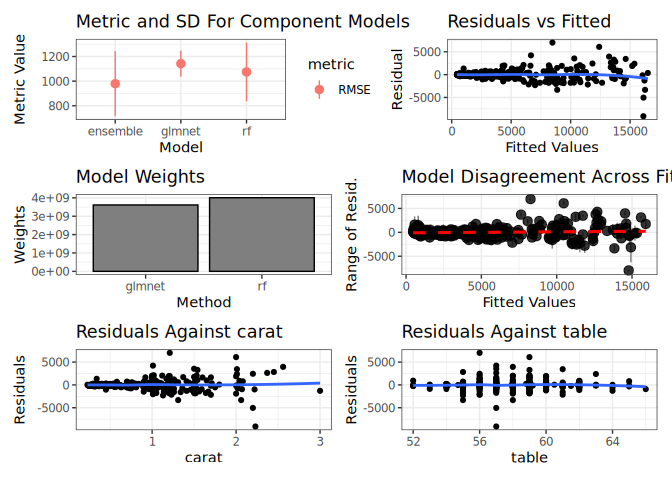
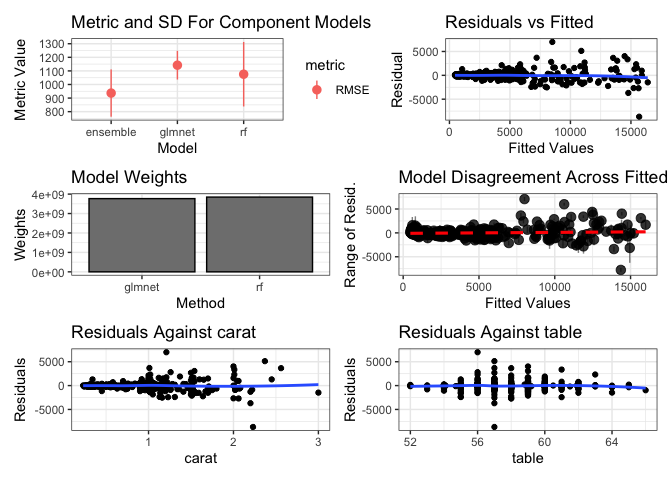
Prep 4.0.2 CRAN submission (NEWS + cran-comments) (#413)

Changed region(s): [[0.0, 0.0312, 1.0, 0.9688], [0.2812, 0.9375, 0.3438, 0.9688]]

diff --git a/README.md b/README.md
@@ -14,14 +14,14 @@ Downloads](https://cranlogs.r-pkg.org/badges/last-month/caretEnsemble)](https://
 [![R-CMD-check](https://github.com/zachmayer/caretEnsemble/actions/workflows/R-CMD-check.yaml/badge.svg?branch=main)](https://github.com/zachmayer/caretEnsemble/actions/workflows/R-CMD-check.yaml)
 [![Tests](https://github.com/zachmayer/caretEnsemble/actions/workflows/tests.yaml/badge.svg?branch=main)](https://github.com/zachmayer/caretEnsemble/actions/workflows/tests.yaml)
 [![Code
-Coverage](https://codecov.io/gh/zachmayer/caretEnsemble/graph/badge.svg?token=IEtOlZDYMs)](https://codecov.io/gh/zachmayer/caretEnsemble)
+Coverage](https://app.codecov.io/gh/zachmayer/caretEnsemble/graph/badge.svg?token=IEtOlZDYMs)](https://app.codecov.io/gh/zachmayer/caretEnsemble)
 [![CodeFactor](https://www.codefactor.io/repository/github/zachmayer/caretEnsemble/badge)](https://www.codefactor.io/repository/github/zachmayer/caretEnsemble)
 [![r-universe status
 badge](https://zachmayer.r-universe.dev/badges/caretEnsemble)](https://zachmayer.r-universe.dev/caretEnsemble)
 [![Code
 Size](https://img.shields.io/github/languages/code-size/zachmayer/caretEnsemble.svg)](https://github.com/zachmayer/caretEnsemble)
 [![License](http://img.shields.io/:license-mit-blue.svg?style=flat)](https://badges.mit-license.org)
-[![Discord](https://img.shields.io/discord/1255535052578619524)](https://discord.gg/zgPeSm8a3u)
+[![Discord](https://img.shields.io/discord/1255535052578619524)](https://discord.com/invite/zgPeSm8a3u)
 <!-- badges: end -->
 
 caretEnsemble is a framework for
@@ -49,7 +49,7 @@ print(summary(models))
 #> Model accuracy:
 #>    model_name metric    value       sd
 #>        <char> <char>    <num>    <num>
-#> 1:         rf   RMSE 1074.682 238.2442
+#> 1:         rf   RMSE 1075.619 237.4499
 #> 2:     glmnet   RMSE 1142.082 105.6022
 ```
 
@@ -69,13 +69,13 @@ print(greedy_stack)
 #> Resampling results:
 #> 
 #>   RMSE      Rsquared   MAE     
-#>   992.0694  0.9354531  559.5561
+#>   974.1608  0.9353576  558.3467
 #> 
 #> Tuning parameter 'max_iter' was held constant at a value of 100
 #> 
 #> Final model:
 #> Greedy MSE
-#> RMSE:  997.4437 
+#> RMSE:  995.7783 
 #> Weights:
 #>        [,1]
 #> rf     0.55
@@ -99,7 +99,7 @@ print(rf_stack)
 #> Resampling results:
 #> 
 #>   RMSE      Rsquared   MAE     
-#>   979.1918  0.9379759  513.1197
+#>   936.8824  0.9436947  486.9744
 #> 
 #> Tuning parameter 'mtry' was held constant at a value of 2
 #> 
@@ -111,7 +111,7 @@ print(rf_stack)
 #>                      Number of trees: 500
 #> No. of variables tried at each split: 2
 #> 
-#>           Mean of squared residuals: 887692.1
+#>           Mean of squared residuals: 887795.7
 #>                     % Var explained: 94.2
 ```
 
@@ -178,7 +178,7 @@ caretEnsemble, along with the necessary package dependencies. \#
 Inspiration and similar packages: caretEnsemble was inspired by
 [medley](https://github.com/mewo2/medley), which in turn was inspired by
 Caruana et. al.’s (2004) paper [Ensemble Selection from Libraries of
-Models.](http://www.cs.cornell.edu/~caruana/ctp/ct.papers/caruana.icml04.icdm06long.pdf)
+Models.](https://www.cs.cornell.edu/~caruana/ctp/ct.papers/caruana.icml04.icdm06long.pdf)
 
 If you want to do something similar in python, check out
 [vecstack](https://github.com/vecxoz/vecstack).

diff --git a/RELEASE.md b/RELEASE.md
@@ -1,0 +1,58 @@
+# Releasing caretEnsemble to CRAN
+
+Three `make` targets automate the mechanical work; the manual steps between them
+are the human gates — review, the CRAN email, and the merge to `main` — that
+shouldn't be automated.
+
+## 1. Prepare — `make release`
+
+Runs the full prep checklist, then opens a GitHub *"Release caretEnsemble x.y.z"* checklist issue:
+
+- `check` — local `R CMD check --as-cran` (remote + manual).
+- `url-check` — `urlchecker::url_check()` (advisory: surfaces broken/redirecting URLs; does not hard-fail).
+- `readme` — `devtools::build_readme()` (regenerates `README.md`; commit the refresh).
+- `check-many-preds`, `check-rev-dep` — **block** on real pass/fail.
+- `check-rhub`, `check-win` — **fire-and-forget** (dispatched, not gated); confirm their results (Actions / 3 win-builder emails) before submitting.
+
+## 2. Review & approve — *manual*
+
+- Work the checklist issue; tick items off as you verify them.
+- **Close the issue.** This is the approval gate that `make submit-cran` looks for.
+
+## 3. Submit — `make submit-cran`
+
+Verifies the checklist issue is closed, then opens R. In that session:
+
+```r
+devtools::submit_cran()
+```
+
+Answer its two confirmations, then **click the CRAN confirmation email**
+(mandatory, CRAN-side — cannot be automated).
+
+## 4. Wait for CRAN — *manual*
+
+CRAN reviews over days. Watch for the acceptance email. If they request changes,
+fix and resubmit (back to step 1 or 3).
+
+## 5. After acceptance
+
+1. **Merge the release PR into `main`** (squash) — on GitHub, or:
+
+   ```sh
+   gh pr merge <PR> --squash --delete-branch
+   ```
+
+2. Check out and pull `main`, then:
+
+   ```sh
+   make post-release
+   ```
+
+   which runs:
+   - `usethis::use_github_release()` — publishes the GitHub release + git tag from `NEWS.md`.
+   - `usethis::use_dev_version(push = TRUE)` — bumps to the next `.9000` dev version, commits, and pushes.
+
+> **Order matters:** merge *before* `post-release`. A squash-merge rewrites the
+> release branch into a single new commit on `main`, so the release tag must be
+> created on `main` *after* the merge — not on the release branch.

diff --git a/revdep/README.md b/revdep/README.md
@@ -1,23 +1,24 @@
 # Platform
 
-|field    |value                          |
-|:--------|:------------------------------|
-|version  |R version 4.4.1 (2024-06-14)   |
-|os       |macOS Sonoma 14.5              |
-|system   |aarch64, darwin20              |
-|ui       |X11                            |
-|language |(EN)                           |
-|collate  |en_US.UTF-8                    |
-|ctype    |en_US.UTF-8                    |
-|tz       |America/New_York               |
-|date     |2024-08-14                     |
-|pandoc   |3.3 @ /opt/homebrew/bin/pandoc |
+|field    |value                           |
+|:--------|:-------------------------------|
+|version  |R version 4.6.1 (2026-06-24)    |
+|os       |macOS Tahoe 26.5.1              |
+|system   |aarch64, darwin23               |
+|ui       |X11                             |
+|language |(EN)                            |
+|collate  |en_US.UTF-8                     |
+|ctype    |en_US.UTF-8                     |
+|tz       |America/New_York                |
+|date     |2026-06-30                      |
+|pandoc   |3.10 @ /opt/homebrew/bin/pandoc |
+|quarto   |1.9.38 @ /usr/local/bin/quarto  |
 
 # Dependencies
 
 |package       |old   |new   |Δ  |
 |:-------------|:-----|:-----|:--|
-|caretEnsemble |2.0.3 |4.0.0 |*  |
+|caretEnsemble |4.0.1 |4.0.2 |*  |
 
 # Revdeps
 

diff --git a/cran-comments.md b/cran-comments.md
@@ -1,5 +1,5 @@
 ## Test environments
-* local M2 mac, R 4.4.1
+* local M2 mac, R 4.6.0
 * R CMD CHECK github actions: mac, windows (R-release)
 * R CMD CHECK github actions: linux (R-release, R-devel, R-oldrelease)
 * win-builder (R-release, R-devel, R-oldrelease)
@@ -8,3 +8,17 @@
 
 ## R CMD check results
 There were no ERRORs, WARNINGs, or NOTEs
+
+## revdepcheck results
+We checked 8 reverse dependencies (6 from CRAN + 2 from Bioconductor), comparing R CMD check results across CRAN and dev versions of this package.
+
+ * We saw 0 new problems
+ * We failed to check 0 packages
+
+## Changes
+This release fixes a test that errored on a CRAN check machine where the suggested package 'klaR' was unavailable; the test now skips when its suggested dependencies are absent.
+
+New features:
+* Keep per-fold resamples in `caretStack`/`caretList` instead of aggregating them.
+* Include original raw-data features in the stack.
+* `plot_variable_importance()` for `caretStack`/`caretEnsemble` models.

diff --git a/NEWS.md b/NEWS.md
@@ -1,3 +1,5 @@
+# caretEnsemble (development version)
+
 # NEWS
 
 # caretEnsemble 4.0.2
@@ -5,6 +7,7 @@
 ## New Features
 - Add option to keep resamples for each repeated fold in `caretStack` and `caretList`, rather than aggregating to one resample per row in the original data. This can give your stacking model more variance to work with, but can lead to a lot more issues with aligning predictions from different models, particularly ones that use different resampling strategies.
 - Add an option to include original features from the raw data in the stack, if stacking on a new dataset rather than on stacked predictions.
+- Add `plot_variable_importance()` to visualize variable importance for `caretStack` and `caretEnsemble` models.
 
 # caretEnsemble 4.0.1
 

diff --git a/revdep/cran.md b/revdep/cran.md
@@ -1,6 +1,6 @@
 ## revdepcheck results
 
-We checked 3 reverse dependencies (2 from CRAN + 1 from Bioconductor), comparing R CMD check results across CRAN and dev versions of this package.
+We checked 8 reverse dependencies (6 from CRAN + 2 from Bioconductor), comparing R CMD check results across CRAN and dev versions of this package.
 
  * We saw 0 new problems
  * We failed to check 0 packages
